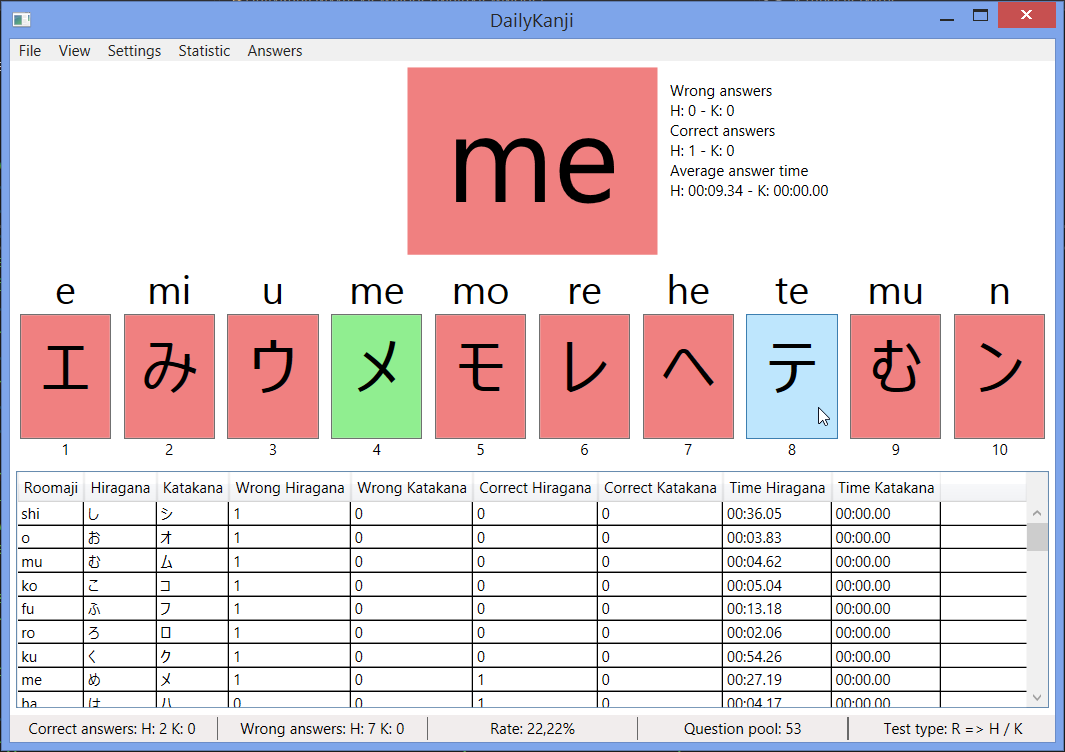
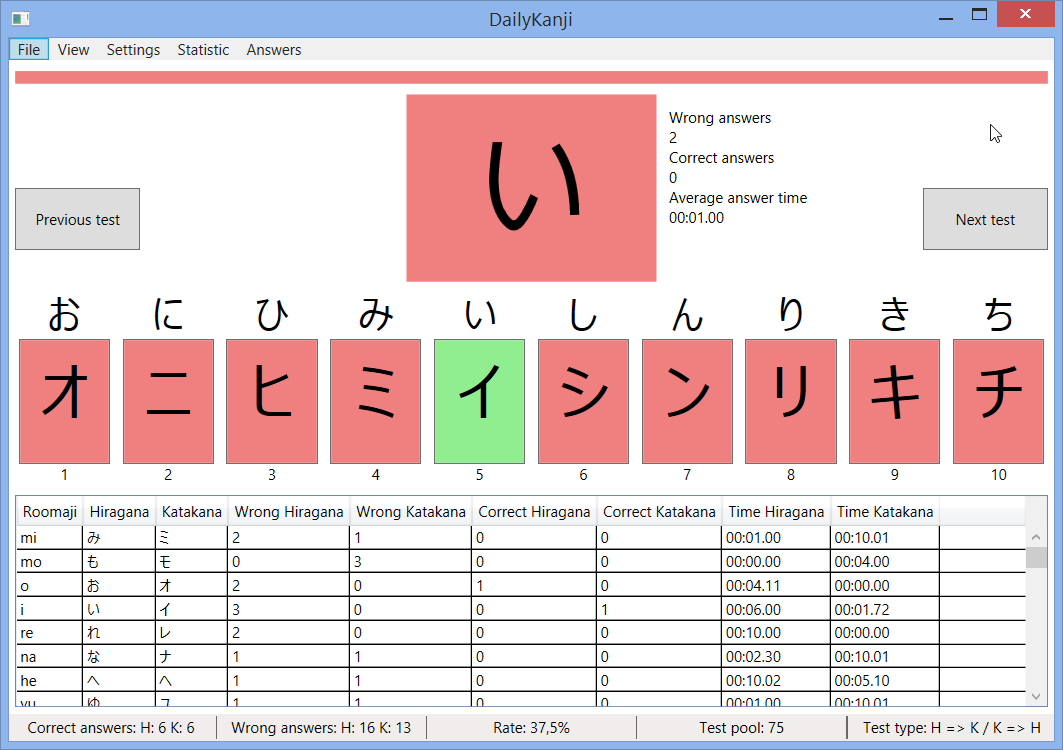
Add menu to select the answer time and updated pictures

Changed region(s): [[0.0, 0.0, 1.0, 1.0], [0.4036, 0.184, 0.5898, 0.3067], [0.4657, 0.0, 0.5588, 0.0613]]

diff --git a/DailyKanji/Mvvm/View/MainWindow.xaml b/DailyKanji/Mvvm/View/MainWindow.xaml
@@ -218,6 +218,114 @@
 
                 </MenuItem>
 
+                <MenuItem Header="Answer time">
+
+                    <MenuItem Command="{Binding Path=ChangeAswerTime}"
+                              CommandParameter="1000"
+                              Header="One second"
+                              IsChecked="{Binding Path=Model.MaximumAnswerTime,
+                                                  Converter={StaticResource ValueToBooleanConverter},
+                                                  ConverterParameter=1000}" />
+
+                    <MenuItem Command="{Binding Path=ChangeAswerTime}"
+                              CommandParameter="2000"
+                              Header="Two second"
+                              IsChecked="{Binding Path=Model.MaximumAnswerTime,
+                                                  Converter={StaticResource ValueToBooleanConverter},
+                                                  ConverterParameter=2000}" />
+
+                    <MenuItem Command="{Binding Path=ChangeAswerTime}"
+                              CommandParameter="3000"
+                              Header="Three second"
+                              IsChecked="{Binding Path=Model.MaximumAnswerTime,
+                                                  Converter={StaticResource ValueToBooleanConverter},
+                                                  ConverterParameter=3000}" />
+
+                    <MenuItem Command="{Binding Path=ChangeAswerTime}"
+                              CommandParameter="4000"
+                              Header="Four second"
+                              IsChecked="{Binding Path=Model.MaximumAnswerTime,
+                                                  Converter={StaticResource ValueToBooleanConverter},
+                                                  ConverterParameter=4000}" />
+
+                    <MenuItem Command="{Binding Path=ChangeAswerTime}"
+                              CommandParameter="5000"
+                              Header="Five second"
+                              IsChecked="{Binding Path=Model.MaximumAnswerTime,
+                                                  Converter={StaticResource ValueToBooleanConverter},
+                                                  ConverterParameter=5000}" />
+
+                    <MenuItem Command="{Binding Path=ChangeAswerTime}"
+                              CommandParameter="6000"
+                              Header="Six second"
+                              IsChecked="{Binding Path=Model.MaximumAnswerTime,
+                                                  Converter={StaticResource ValueToBooleanConverter},
+                                                  ConverterParameter=6000}" />
+
+                    <MenuItem Command="{Binding Path=ChangeAswerTime}"
+                              CommandParameter="7000"
+                              Header="Seven second"
+                              IsChecked="{Binding Path=Model.MaximumAnswerTime,
+                                                  Converter={StaticResource ValueToBooleanConverter},
+                                                  ConverterParameter=7000}" />
+
+                    <MenuItem Command="{Binding Path=ChangeAswerTime}"
+                              CommandParameter="8000"
+                              Header="Eight second"
+                              IsChecked="{Binding Path=Model.MaximumAnswerTime,
+                                                  Converter={StaticResource ValueToBooleanConverter},
+                                                  ConverterParameter=8000}" />
+
+                    <MenuItem Command="{Binding Path=ChangeAswerTime}"
+                              CommandParameter="9000"
+                              Header="Nine second"
+                              IsChecked="{Binding Path=Model.MaximumAnswerTime,
+                                                  Converter={StaticResource ValueToBooleanConverter},
+                                                  ConverterParameter=9000}" />
+
+                    <MenuItem Command="{Binding Path=ChangeAswerTime}"
+                              CommandParameter="10000"
+                              Header="Ten second"
+                              IsChecked="{Binding Path=Model.MaximumAnswerTime,
+                                                  Converter={StaticResource ValueToBooleanConverter},
+                                                  ConverterParameter=10000}" />
+
+                    <MenuItem Command="{Binding Path=ChangeAswerTime}"
+                              CommandParameter="11000"
+                              Header="Eleven second"
+                              IsChecked="{Binding Path=Model.MaximumAnswerTime,
+                                                  Converter={StaticResource ValueToBooleanConverter},
+                                                  ConverterParameter=11000}" />
+
+                    <MenuItem Command="{Binding Path=ChangeAswerTime}"
+                              CommandParameter="12000"
+                              Header="Twelve second"
+                              IsChecked="{Binding Path=Model.MaximumAnswerTime,
+                                                  Converter={StaticResource ValueToBooleanConverter},
+                                                  ConverterParameter=12000}" />
+
+                    <MenuItem Command="{Binding Path=ChangeAswerTime}"
+                              CommandParameter="13000"
+                              Header="Thirteen second"
+                              IsChecked="{Binding Path=Model.MaximumAnswerTime,
+                                                  Converter={StaticResource ValueToBooleanConverter},
+                                                  ConverterParameter=13000}" />
+
+                    <MenuItem Command="{Binding Path=ChangeAswerTime}"
+                              CommandParameter="14000"
+                              Header="Fourteen second"
+                              IsChecked="{Binding Path=Model.MaximumAnswerTime,
+                                                  Converter={StaticResource ValueToBooleanConverter},
+                                                  ConverterParameter=14000}" />
+
+                    <MenuItem Command="{Binding Path=ChangeAswerTime}"
+                              CommandParameter="15000"
+                              Header="Fifteen second"
+                              IsChecked="{Binding Path=Model.MaximumAnswerTime,
+                                                  Converter={StaticResource ValueToBooleanConverter},
+                                                  ConverterParameter=15000}" />
+                </MenuItem>
+
                 <MenuItem Header="Error timeout">
 
                     <MenuItem Command="{Binding Path=ChangeErrorTimeout}"

diff --git a/DailyKanji/Mvvm/ViewModel/MainViewModel.cs b/DailyKanji/Mvvm/ViewModel/MainViewModel.cs
@@ -16,12 +16,10 @@ namespace DailyKanji.Mvvm.ViewModel
     // BUG
     // ---
     // TODO: Bug inside command helper, so predicate is not usable on commands
-    // TODO: Empty current stats on correct answer
     // TODO: Test counting (correct and wrong) on new test type "HiraganaToKatakanaOrKatakanaOrHiragana"
 
     // Next
     // ----
-    // TODO: Change colour of visible timer on wrong answered to red
     // TODO: Visible timer (progress-bar) can be deactivated via menu (timeout is deactivated too)
     // TODO: make maximum answer time and refresh interval for timer changeable via menu
     // TODO: Add test type for all -> "Hiragana, Katakana or Roomaji to Hiragana, Katakana or Roomaji"
@@ -55,14 +53,29 @@ namespace DailyKanji.Mvvm.ViewModel
     // TODO: Move logic to separate library project in .Net Standard 2.0
     // TODO: Add command line project in .Net Core 2.1 (usable under Windows, Linux, macOS)
     // TODO: Export (XLSX, CSV, JSON, XML)
+    // TODO: Start with integration of Kanji tests
+
+    // Ideas
+    // -----
     // TODO: Make colours choose-able
-    // TODO: Import ???
+    // TODO: Import (XLSX, CSV, JSON, XML)
+    // TODO: Gamepad support
 
     public sealed partial class MainViewModel
     {
         #region Private Properties
 
-        private string _settingFileName => "settings.json";
+        private string _settingFileName
+            => "settings.json";
+
+        private Brush _progressBarColor
+            => new SolidColorBrush(Colors.LightBlue);
+
+        private Brush _errorColor
+            => new SolidColorBrush(Colors.LightCoral);
+
+        private Brush _correctColor
+            => new SolidColorBrush(Colors.LightGreen);
 
         private MainWindow _mainWindow { get; }
 
@@ -393,7 +406,7 @@ namespace DailyKanji.Mvvm.ViewModel
                         throw new ArgumentOutOfRangeException(nameof(Model.SelectedTestType), "Test type not supported");
                 }
 
-                SetErrorColors(Colors.LightCoral);
+                SetErrorColors();
                 BuildAnswerMenuAndButtons();
 
                 var timer = new Timer(Model.ErrorTimeout)
@@ -414,17 +427,16 @@ namespace DailyKanji.Mvvm.ViewModel
         /// <summary>
         /// Set colours to all elements
         /// </summary>
-        internal void SetErrorColors(Color color)
+        internal void SetErrorColors()
         {
-            Model.CurrentAskSignColor = new SolidColorBrush(color);
-            Model.ProgressBarColor    = new SolidColorBrush(color);
+            Model.CurrentAskSignColor = _errorColor;
+            Model.ProgressBarColor    = _errorColor;
 
             for(var answerNumber = 0; answerNumber < Model.MaximumAnswer; answerNumber++)
             {
-                Model.AnswerButtonColor[answerNumber]
-                    = new SolidColorBrush(Model.PossibleAnswers[answerNumber].Roomaji == Model.CurrentTest.Roomaji
-                                            ? Colors.LightGreen
-                                            : color);
+                Model.AnswerButtonColor[answerNumber] = Model.PossibleAnswers[answerNumber].Roomaji == Model.CurrentTest.Roomaji
+                    ? _correctColor
+                    : _errorColor;
 
                 if(Model.ShowHints)
                 {
@@ -439,7 +451,7 @@ namespace DailyKanji.Mvvm.ViewModel
         internal void RemoveAnswerColors()
         {
             Model.CurrentAskSignColor = new SolidColorBrush(Colors.Transparent);
-            Model.ProgressBarColor    = new SolidColorBrush(Colors.LightBlue);
+            Model.ProgressBarColor    = _progressBarColor;
 
             for(var answerNumber = 0; answerNumber < 10; answerNumber++)
             {

diff --git a/DailyKanji/Mvvm/ViewModel/MainViewModelCommands.cs b/DailyKanji/Mvvm/ViewModel/MainViewModelCommands.cs
@@ -38,6 +38,19 @@ namespace DailyKanji.Mvvm.ViewModel
                     BuildAnswerMenuAndButtons();
                 });
 
+        public ICommand ChangeAswerTime
+            => new CommandHelper(value
+                =>
+                {
+                    Model.MaximumAnswerTime = Convert.ToDouble(value);
+
+                    Model.TestTimer.Stop();
+                    Model.ProgressBarColor = _progressBarColor;
+
+                    Model.TestStartTime = DateTime.UtcNow;
+                    Model.TestTimer.Start();
+                });
+
         public ICommand ChangeAnswerMode
             => new CommandHelper(()
                 =>

diff --git a/readme.md b/readme.md
@@ -12,15 +12,16 @@ in development
   * Hiragana to Katakana or Katakana to Hiragana, Only Hiragana to Katakana, Only Katakana to Hiragana
 * Test can be answered via left mouse click, number key and menu
 * Switch to previous test or next test
+* Running answer timer, when time is over the test is automatically answered wrong
 * Highlight wrong and correct answers, when answer was wrong
 * Show hint of all possible answers, when answer was wrong (can be deactivated via menu)
-* Running answer timer, when time is over the test is automatically answered wrong
-* Count answer time (separates counter for Hiragana and Katakana)
+* Count answer times (separates counter for Hiragana and Katakana)
 * Can show only similar answers
 * Changeable answer count (from two answers up to ten answers)
-* Changeable error time (highlight when answer was wrong)
-* Automatically load and save test statistics and settings
+* Changeable answer time (from one seconds up to fifteen seconds)
+* Changeable error time (from one point five seconds to ten seconds)
 * Statistics can reset via menu
+* Automatically load and save test statistics and settings
 
 # Missing a feature or found a bug?
 Open a issue ticket or make a pull request
@@ -64,8 +65,10 @@ Open a issue ticket or make a pull request
 * Move logic to separate library project in .Net Standard 2.0
 * Add command line project in .Net Core 2.1 (usable under Windows, Linux, macOS)
 * Export (XLSX, CSV, JSON, XML)
-* Integrate Kanji tests
+* Start with integration of Kanji tests
 
 #### Ideas
 * Make colours choose-able
 * Import (XLSX, CSV, JSON, XML)
+* Gamepad Support
+
